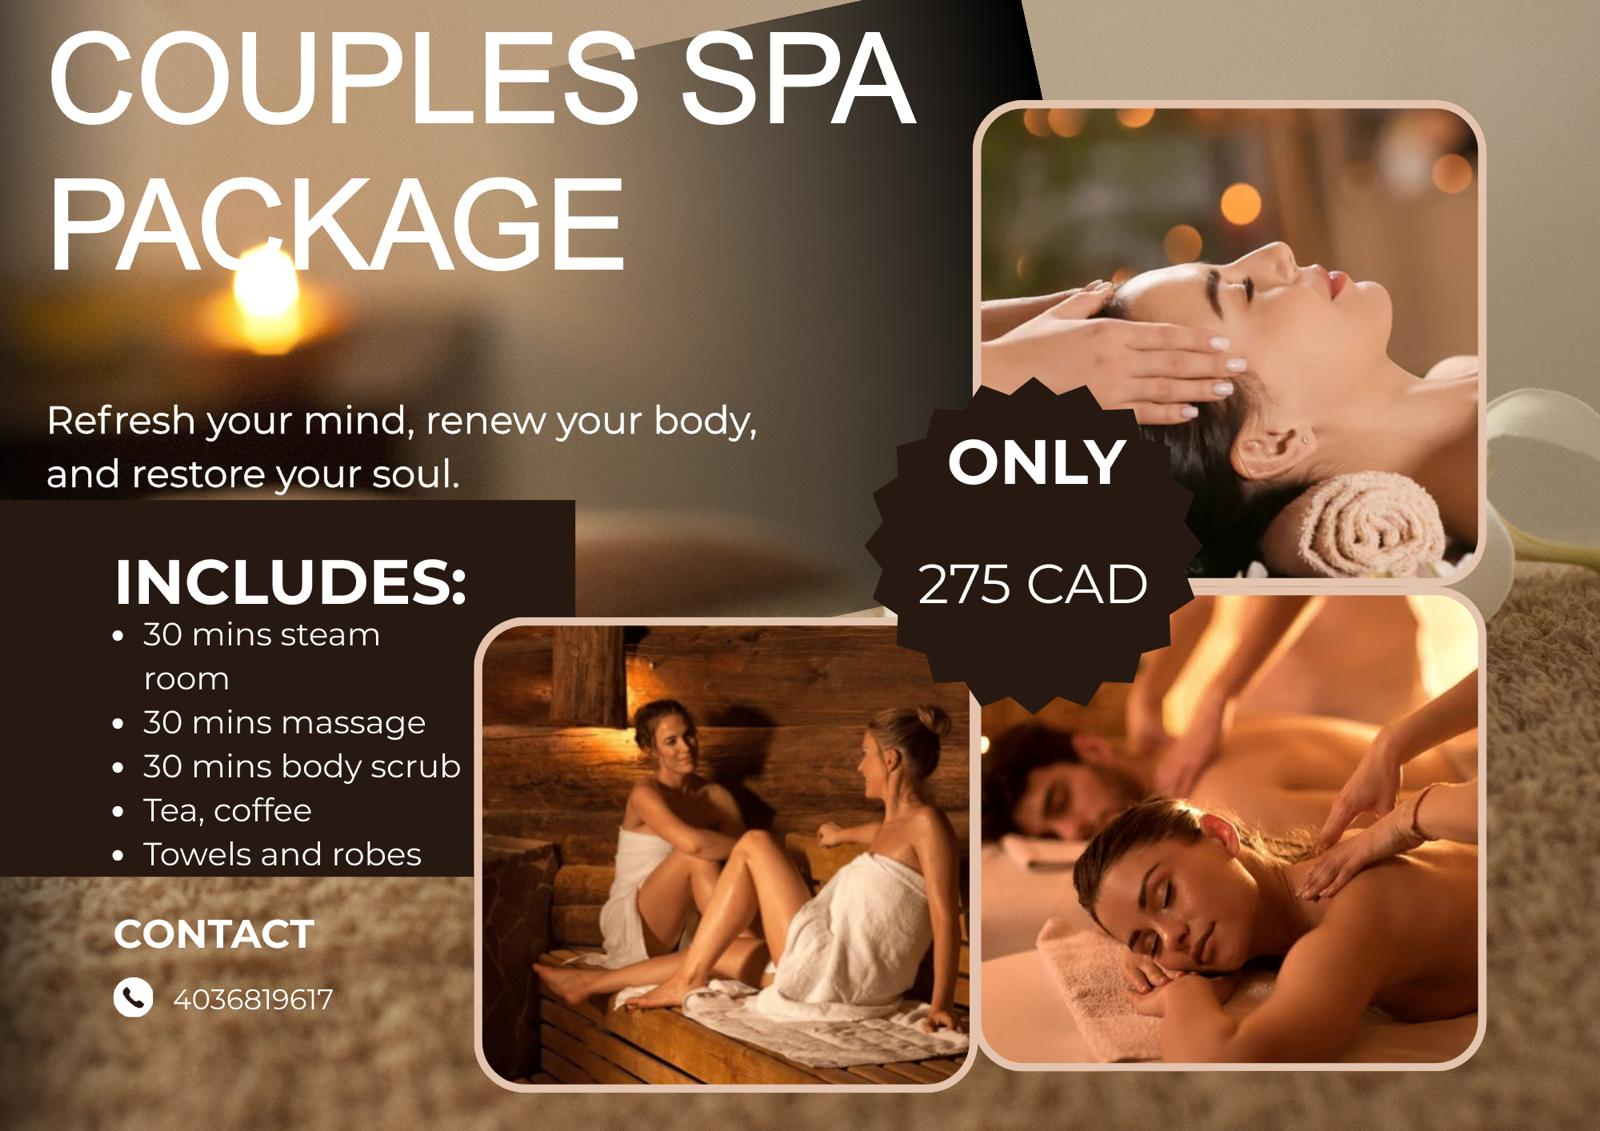
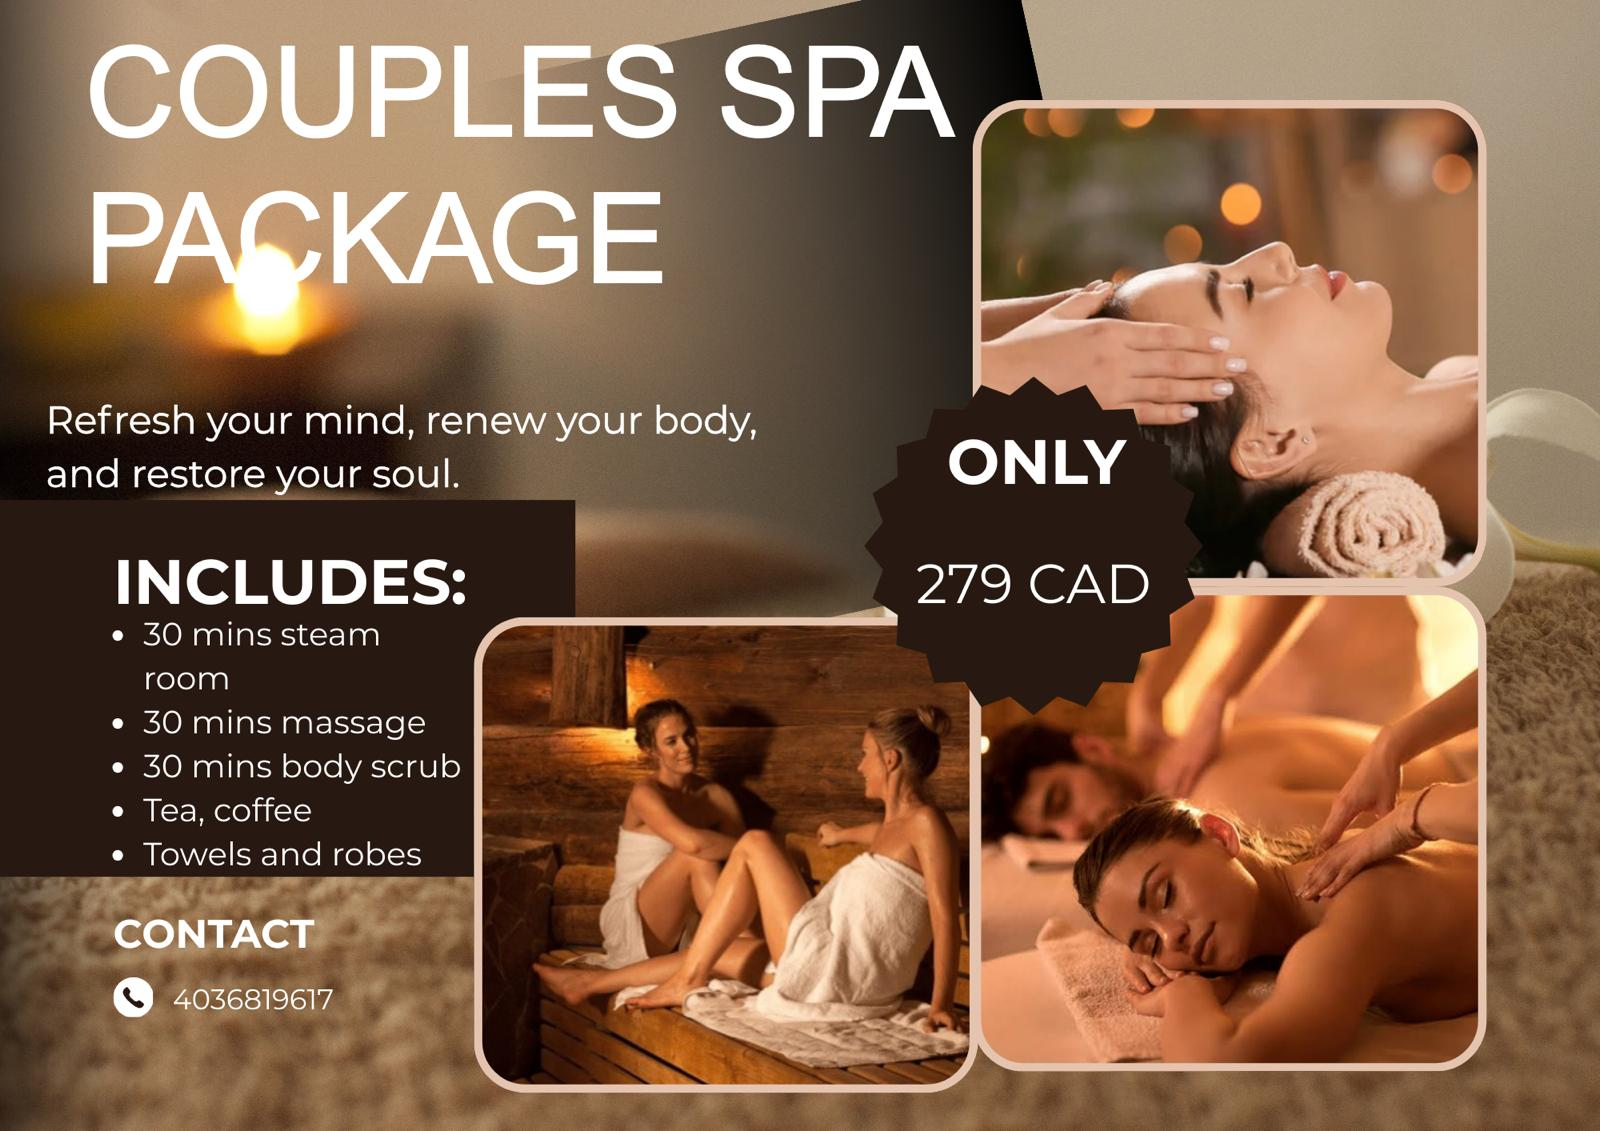
Add files via upload

Changed region(s): [[0.0312, 0.0309, 0.5938, 0.1238], [0.0312, 0.1547, 0.4062, 0.2785], [0.5625, 0.4951, 0.7188, 0.5261]]

diff --git a/admin-appointments.html b/admin-appointments.html
@@ -423,8 +423,8 @@
                         <label for="new-appointment-service">Select Service:</label>
                         <select id="new-appointment-service" name="service" required onchange="updateNewServiceOptions()">
                             <option value="">Select a service</option>
-                            <option value="mini-spa-promo">Mini Spa Promo</option>
-                            <option value="couples-promo">Couples Spa Promo</option>
+                            <option value="mini-spa">Mini Spa For One</option>
+                            <option value="couples-package">Couples Spa Package</option>
                             <option value="sauna-rental">Sauna Rental</option>
                             <option value="busy-bees">Busy Bees</option>
                             <option value="slavic-steam-ceremony">Slavic Steam Ceremony</option>
@@ -505,8 +505,8 @@
                     <label for="popup-filter-service">Service:</label>
                     <select id="popup-filter-service">
                         <option value="">All</option>
-                        <option value="mini-spa-promo">Mini Spa Promo</option>
-                        <option value="couples-promo">Couples Spa Promo</option>
+                        <option value="mini-spa">Mini Spa For One</option>
+                        <option value="couples-package">Couples Spa Package</option>
                         <option value="sauna-rental">Sauna Rental</option>
                         <option value="busy-bees">Busy Bees</option>
                         <option value="slavic-steam-ceremony">Slavic Steam Ceremony</option>
@@ -1240,10 +1240,10 @@
             } else if (service === "busy-bees") {
                 durationBox.style.display = "block";
                 durationSelect.innerHTML += `<option value="2.5 hrs">2.5 hrs</option>`;
-            } else if (service === "mini-spa-promo") {
+            } else if (service === "mini-spa") {
                 durationBox.style.display = "block";
                 durationSelect.innerHTML += `<option value="1 hrs">1 hrs</option>`;
-            } else if (service === "couples-promo") {
+            } else if (service === "couples-package") {
                 durationBox.style.display = "block";
                 durationSelect.innerHTML += `<option value="1.5 hrs">1.5 hrs</option>`;
             } else if (service === "slavic-steam-ceremony") {

diff --git a/index.html b/index.html
@@ -109,7 +109,7 @@
                 <i class='bx bx-party'></i>
                 <h3>Party Package</h3>
                 <p>Celebrate special occasions with our exclusive Party Package. Enjoy a fun and luxurious spa experience with friends or loved ones, featuring a variety of treatments and amenities tailored for your event. Perfect for birthdays, bridal showers, and other celebrations.</p>
-                <a href="#" class="btn" data-title="Party Package" data-description="3-6*" data-length="3+ (hours)" data-price="$150/person" data-details="Description:| <span class='small-text'>This package includes three hours of rental for both dry and wet saunas. Minnimum 3 people required, each participant will be treated to a full-body polishing. The guest of honor will receive additional special treatments, including a body scrub, facial, body and face mask, or a full-body massage with lotion. These treatments can be adjusted for male parties. Refreshments include coffee, tea, lemonade, and snacks. The guest of honor will also receive a special gift.|</span>">Read More</a>
+                <a href="#" class="btn" data-title="Party Package" data-description="3-6*" data-length="3+ (hours)" data-price="$159/person" data-details="Description:| <span class='small-text'>This package includes three hours of rental for both dry and wet saunas. Minnimum 3 people required, each participant will be treated to a full-body polishing. The guest of honor will receive additional special treatments, including a body scrub, facial, body and face mask, or a full-body massage with lotion. These treatments can be adjusted for male parties. Refreshments include coffee, tea, lemonade, and snacks. The guest of honor will also receive a special gift.|</span>">Read More</a>
             </div>
 
             <div class="services-box">

diff --git a/booking.html b/booking.html
@@ -178,8 +178,8 @@
                         <label for="services">Select Service:</label>
                         <select id="services" name="service" required onchange="updateServiceOptions()">
                             <option value="">Select a service</option>
-                            <option value="mini-spa-promo">Mini Spa Promo</option>
-                            <option value="couples-promo">Couples Spa Promo</option>
+                            <option value="mini-spa">Mini Spa For One</option>
+                            <option value="couples-package">Couples Spa Package</option>
                             <option value="sauna-rental">Sauna Rental</option>
                             <option value="busy-bees">Busy Bees</option>
                             <option value="slavic-steam-ceremony">Salavic Steam Ceremony</option>
@@ -327,10 +327,10 @@
             } else if (service === "busy-bees") {
                 durationBox.style.display = "block";
                 durationSelect.innerHTML += `<option value="2.5 hrs">2.5 hrs</option>`;
-            } else if (service === "mini-spa-promo") {
+            } else if (service === "mini-spa") {
                 durationBox.style.display = "block";
                 durationSelect.innerHTML += `<option value="1 hrs">1 hrs</option>`;
-            } else if (service === "couples-promo") {
+            } else if (service === "couples-package") {
                 durationBox.style.display = "block";
                 durationSelect.innerHTML += `<option value="1.5 hrs">1.5 hrs</option>`;
             } else if (service === "slavic-steam-ceremony") {

diff --git a/services.html b/services.html
@@ -217,11 +217,6 @@
         <div class="price-list">
             <h2>Price List</h2>
             <ul>
-                <h3>PROMOTIONS</h3>
-                <li><span>Mini Spa Promo</span> <span>$99</span></li>
-                <li><span>Couples Spa Package</span> <span>$279</span></li>
-
-
                 <h3>SAUNA RENTAL (1-6 People)</h3>
                 <li><span>3hrs</span> <span>$390</span></li>
                 <li class="extra-info" style="font-size: 1rem;">every additional person - $65</li>
@@ -241,10 +236,12 @@
 
 
                 <h3>SPA PROCEDURES</h3>
+                <li><span>Mini Spa For One</span> <span>$99</span></li>
+                <li><span>Couples Spa Package</span> <span>$279</span></li>
                 <li><span>Busy Bee</span> <span>$259</span></li>
                 <li><span>Slavic Steam Ceremony</span> <span>$259</span></li>
                 <li><span>Ritual Rejuvenation</span> <span>$459</span></li>
-                <li><span>Birthdays & Bachelorettes</span> <span>$150/person</span></li>
+                <li><span>Birthdays & Bachelorettes</span> <span>$159/person</span></li>
                 <li class="extra-info" style="font-size: 1rem;">minimum 3 people</li>
 
                 <h3>ADDITIONAL SERVICES</h3>
